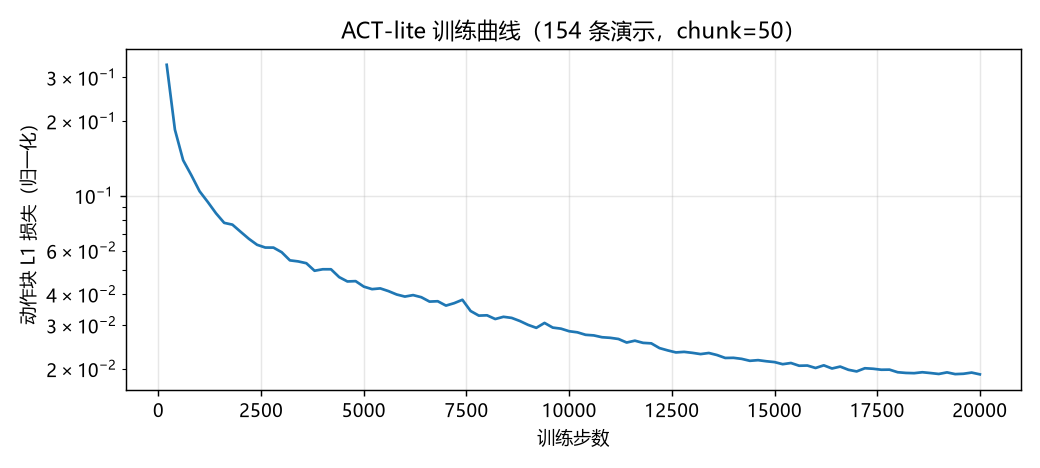
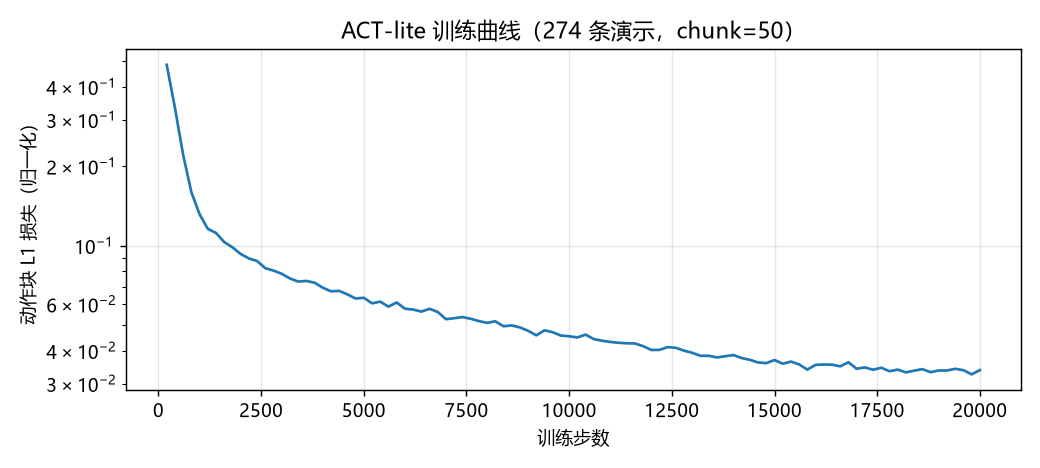
首个学习策略达成：ACT 随机场景撕剪 80% / 全流程 75%（错标定脚本 7.5 倍）
- 流水线 v2 完成：274 条 DART 带噪演示（专家 94%）→ 重训 20k 步 → 预注册评测
- 同场景序列对比：完美脚本 100% / 错标定 3cm 脚本 10% / ACT 75%（全流程）
- 三层修复全部生效；失败 4/20 集中在接触环节（RL 精修目标）
- rollout 实录视频 ×3 入库，新日志 2026-07-18-result，首页/看板更新

diff --git a/docs/journal/2026-07-18-result.md b/docs/journal/2026-07-18-result.md
@@ -1,0 +1,64 @@
+# 2026-07-18 (夜) · 首个学习策略达成：ACT 75%，七倍于错标定脚本
+
+## 结果
+
+流水线 v2（DART 带噪专家重采 → 重训 → 预注册评测）完成。
+**首个从像素学到的分药策略诞生**——三层修复（[破案日志](2026-07-18-debug.md)）全部生效：
+
+| 同一随机场景序列 × 20 | 撕剪入盒 B | 全流程（含放回盒 A） |
+|---|---|---|
+| 完美标定脚本专家（上界） | 100% | 100% |
+| 错标定 3 cm 脚本专家（对照） | 65% | **10%** |
+| **ACT 视觉策略（本次）** | **80%** | **75%** |
+
+**核心结论**：面对 3 cm 级的位置不确定性，写死坐标的脚本几乎全灭（全流程 10%），
+而闭环视觉策略保住了 75%——**7.5 倍差距，"从图像适应位置"的价值首次被自己的
+实验定量证明**。这正是[第二课](../concepts/from-script-to-policy.md)预言的：
+脚本把世界写进代码，策略把世界留在输入里。
+
+策略 rollout 实录（策略自己看图闭环控制，非脚本）：
+
+<video controls src="../../assets/videos/act_rollout_0.mp4"></video>
+
+![训练曲线](../assets/images/act_train_loss.png)
+
+## 这一版为什么成了
+
+对照上一篇的三层修复，各自的贡献：
+
+1. **环境物理补全**（抓取锁定、撕裂规则入环境）——没有它，任何策略都物理上
+   不可能成功（重放实验证明）；
+2. **任务条件 token**——没有它，策略输出 3f/3b 两类演示的平均动作；
+3. **DART 带噪专家 + 传感器 dropout**——治好相位死锁：带噪演示教会策略
+   "偏了怎么拉回来"，图像 dropout 逼出 qpos 相位时钟。
+   带噪专家采集成功率 94%（274 成功 / 290 总数），失败条自动丢弃不入训练集。
+
+失败的 4/20 集中在两类：撕剪时格子滑脱（接触力时机偏差）和投放弹出盒沿——
+都是接触环节的精度问题，正是下一阶段 RL 精修的目标。
+
+## 数字背后的工程账
+
+- 数据：274 条带噪演示（~14 GB，全自动采集，零人工遥操作）；
+- 训练：20k 步 / 45 分钟（RTX 4080，bf16）；
+- 评测：20 rollout × ~55 s 仿真；
+- 从"决定做模仿学习"到"75% 策略"总计一天，其中三分之二时间花在
+  两轮失败的诊断上——**这个比例是常态而非例外**，诊断工具
+  （重放测试、相位追踪、分布内外对比）是最值得沉淀的资产。
+
+## 下一步
+
+- **RL 精修接触环节**：撕剪滑脱与投放弹出是稀疏奖励 + 特权信息教师的
+  理想练兵场（`pill_env` 接口已就位）；
+- **扩大随机化**：当前策略只见过 ±2~3 cm 扰动；курс式扩大到 ±5 cm、
+  加光照/纹理随机化，测泛化边界；
+- **VLA 微调**：把 274 条数据转 LeRobot 格式，微调 π0/OpenVLA，
+  对比小模型 ACT 与预训练大模型的数据效率。
+
+## 复现
+
+```powershell
+cd experiments\pill_sorting
+powershell -ExecutionPolicy Bypass -File pipeline_v2.ps1   # 采集→训练→评测全流程
+..\..\.venv\Scripts\python.exe eval_act.py --n 20 --video  # 仅评测
+..\..\.venv\Scripts\python.exe eval_miscalib.py --n 20     # 错标定对照组
+```

diff --git a/docs/index.md b/docs/index.md
@@ -71,14 +71,14 @@ graph LR
 ## 当前进度
 
 <div class="stat-grid" markdown>
-<div class="stat-card" markdown><span class="num">0→2</span><span class="label">当前阶段 / 共 7 阶段</span></div>
-<div class="stat-card" markdown><span class="num">6</span><span class="label">学习日志篇数</span></div>
-<div class="stat-card" markdown><span class="num">8</span><span class="label">完成的仿真实验</span></div>
-<div class="stat-card" markdown><span class="num">10/10</span><span class="label">专家随机场景成功率</span></div>
+<div class="stat-card" markdown><span class="num">2</span><span class="label">当前阶段 / 共 7 阶段</span></div>
+<div class="stat-card" markdown><span class="num">8</span><span class="label">学习日志篇数</span></div>
+<div class="stat-card" markdown><span class="num">274</span><span class="label">自动采集演示数据（条）</span></div>
+<div class="stat-card" markdown><span class="num">75%</span><span class="label">ACT 策略全流程成功率</span></div>
 </div>
 
-!!! warning "最新进展 · 2026-07-18 深夜"
-    **第一次策略评测 0/20，完成三层失败解剖**：任务信息缺失、环境物理残缺（重放实验揪出）、相位混淆（BC 复合误差 + 因果混淆的活教材）。修复 + DART 带噪专家重采 + 传感器 dropout，流水线 v2 运行中。[看破案日志 →](journal/2026-07-18-debug.md)
+!!! success "最新进展 · 2026-07-18 夜"
+    **首个从像素学到的分药策略达成**：ACT 视觉策略在随机场景上撕剪 80%、全流程 75%——同序列下错标定 3 cm 的脚本只有 10%，"从图像适应位置"的价值被定量证明。经历 0/20 → 三层解剖 → 修复的完整过程。[看结果日志 →](journal/2026-07-18-result.md)
 
 !!! tip "如何使用这个网站"
     - **[学习路线图](roadmap.md)**：整个项目的地图，随时回来看看我们走到哪了。

diff --git a/docs/tasks/pill-sorting.md b/docs/tasks/pill-sorting.md
@@ -70,7 +70,10 @@ graph TD
 - [x] **v5 移动操作机器人**：轮式底盘 + 双臂并排朝前（Mobile ALOHA 形态），盒 A/B 在固定桌上，先导航后操作，见 [2026-07-18](../journal/2026-07-18-mobile.md)
 - [x] **学习管线地基**：Gymnasium 环境 + 域随机化（盒位 ±2~3 cm/停车 ±1.5 cm ±2.5°/目标格随机）+
   机载三相机观测 + 脚本专家自动采集 ACT 数据（随机场景 10/10），见 [2026-07-18 (下)](../journal/2026-07-18-pipeline.md)
-- [ ] 扩大采集（~200 条）并训练 ACT，随机位置成功率评测（路线详见[第二课](../concepts/from-script-to-policy.md)）
-- [ ] 目标格 8 格任选（撕剪顺序规划）+ 板位姿扰动
+- [x] **ACT 模仿学习**：274 条 DART 带噪演示 → ACT-lite，随机场景撕剪 80% / 全流程 75%
+  （错标定 3 cm 脚本对照 65%/10%），见 [2026-07-18 (夜)](../journal/2026-07-18-result.md)
+- [ ] RL 精修接触环节（撕剪滑脱/投放弹出，特权教师 + 蒸馏）
+- [ ] 目标格 8 格任选（撕剪顺序规划）+ 板位姿扰动 + 光照/纹理随机化
+- [ ] 数据转 LeRobot 格式，微调 VLA（π0/OpenVLA）对比数据效率
 - [ ] 仿真中训练双臂撕剪策略（阶段 3，模仿学习 / RL）
 - [ ] 药片视觉识别数据集构建

diff --git a/docs/journal/index.md b/docs/journal/index.md
@@ -6,6 +6,11 @@
 
 <div class="timeline" markdown>
 <div class="tl-item" markdown>
+<span class="tl-date">2026-07-18 (夜)</span>
+
+**[首个学习策略达成：ACT 75%，七倍于错标定脚本](2026-07-18-result.md)** — 三层修复 + DART 带噪专家生效：同一随机场景序列上，ACT 视觉策略撕剪 **80%**、全流程 **75%**，而错标定 3 cm 的脚本专家只有 65%/10%——"从图像适应位置"的价值首次被自己的实验定量证明。附策略 rollout 实录视频。
+</div>
+<div class="tl-item" markdown>
 <span class="tl-date">2026-07-18 (深夜)</span>
 
 **[0/20 之后：模仿学习失败的三层解剖](2026-07-18-debug.md)** — 训练损失漂亮但评测全灭。逐层破案：任务信息缺失（目标格不可见 → 平均动作）、环境物理残缺（抓取锁定/撕裂规则住在专家里，重放实验揪出）、相位混淆（首尾同像 + qpos 通路萎缩 → 开场即"收尾"死锁）。对策：任务 token、规则入环境、DART 带噪专家 + 传感器 dropout，流水线 v2 运行中。

diff --git a/docs/tasks/index.md b/docs/tasks/index.md
@@ -46,7 +46,8 @@
 | 全闭环 v3（盒 A 取板→撕剪→入盒 B→放回盒 A） | A | <span class="badge badge-done">完成</span> | [2026-07-17 (晚)](../journal/2026-07-17-full.md) |
 | 移动操作机器人 v5（轮式双臂 + 固定桌，导航 + 全闭环分药） | A | <span class="badge badge-done">完成</span> | [2026-07-18](../journal/2026-07-18-mobile.md) |
 | 分药 Gymnasium 环境 + 域随机化 + 专家数据采集（10/10） | A | <span class="badge badge-done">完成</span> | [2026-07-18 (下)](../journal/2026-07-18-pipeline.md) |
-| ACT 模仿学习训练 + 随机位置成功率评测 | A | <span class="badge badge-todo">未开始</span> | - |
+| ACT 模仿学习（撕剪 80% / 全流程 75%，错标定脚本 7.5 倍） | A | <span class="badge badge-done">完成</span> | [2026-07-18 (夜)](../journal/2026-07-18-result.md) |
+| RL 精修接触环节（撕剪滑脱/投放弹出） | A | <span class="badge badge-todo">未开始</span> | - |
 | 铝塑板按压策略（学习版） | A | <span class="badge badge-todo">未开始</span> | - |
 | 药片识别数据集 | A | <span class="badge badge-todo">未开始</span> | - |
 | 袖带缠绕可行性调研 | B | <span class="badge badge-todo">未开始</span> | - |